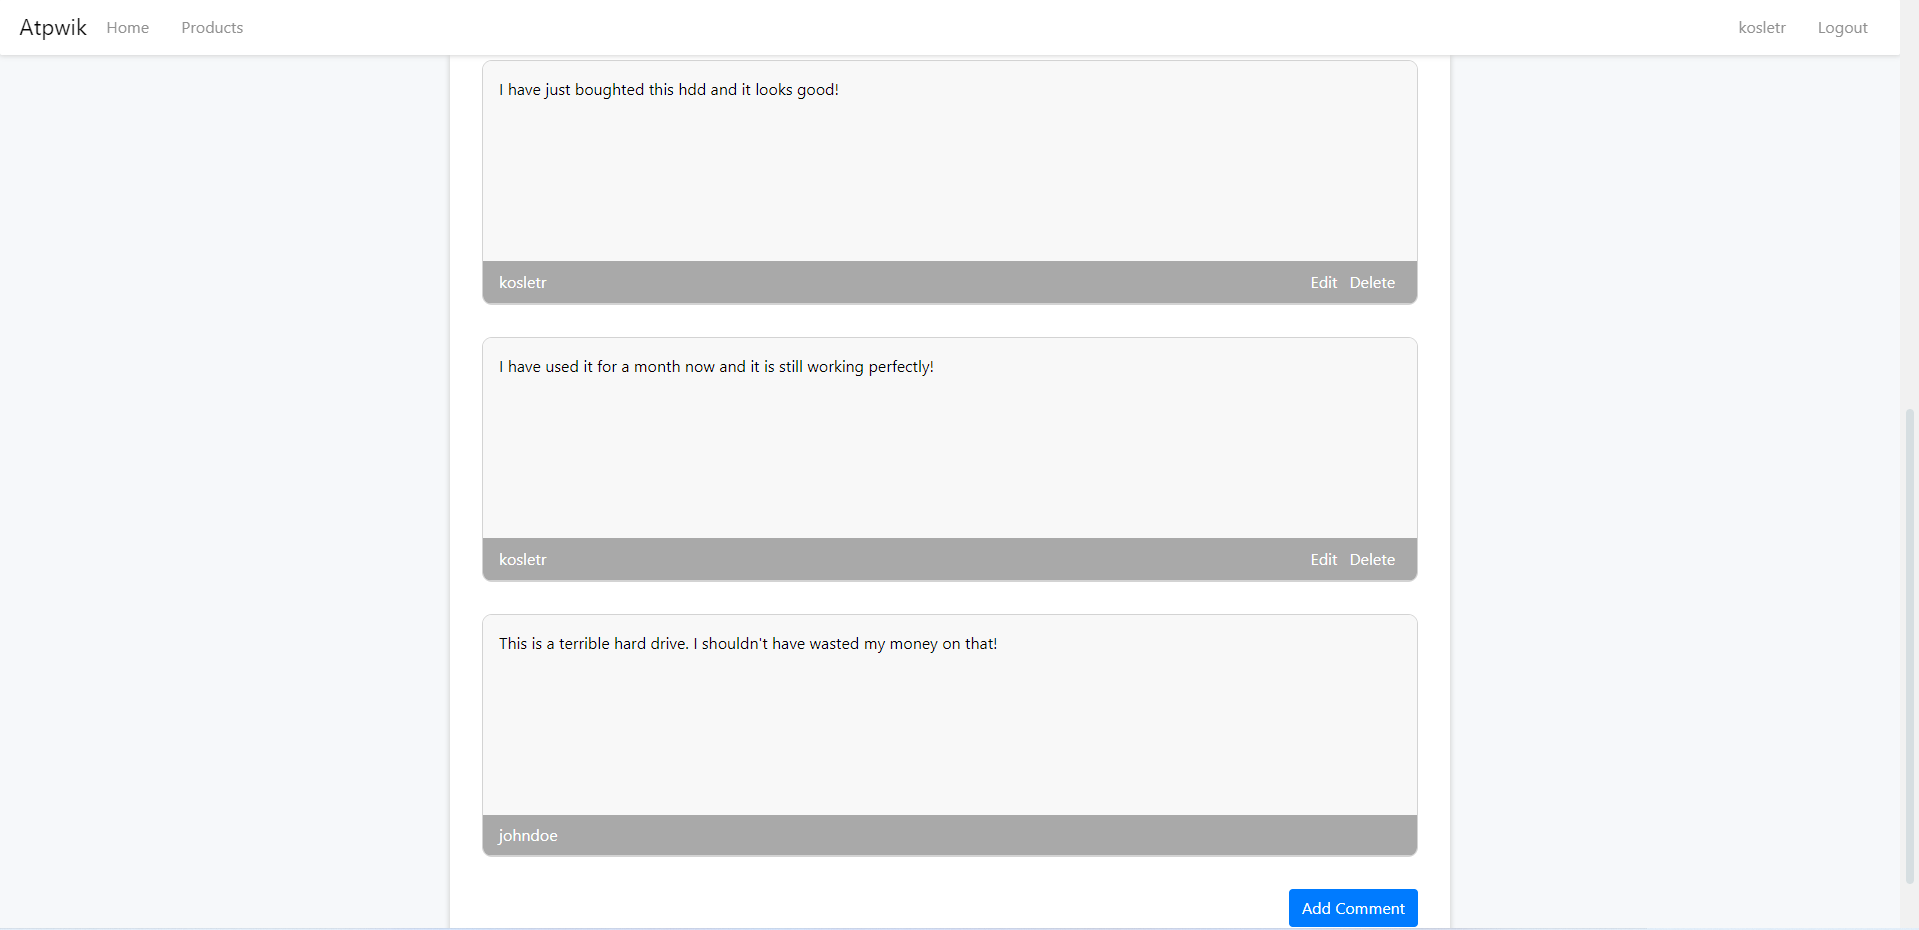
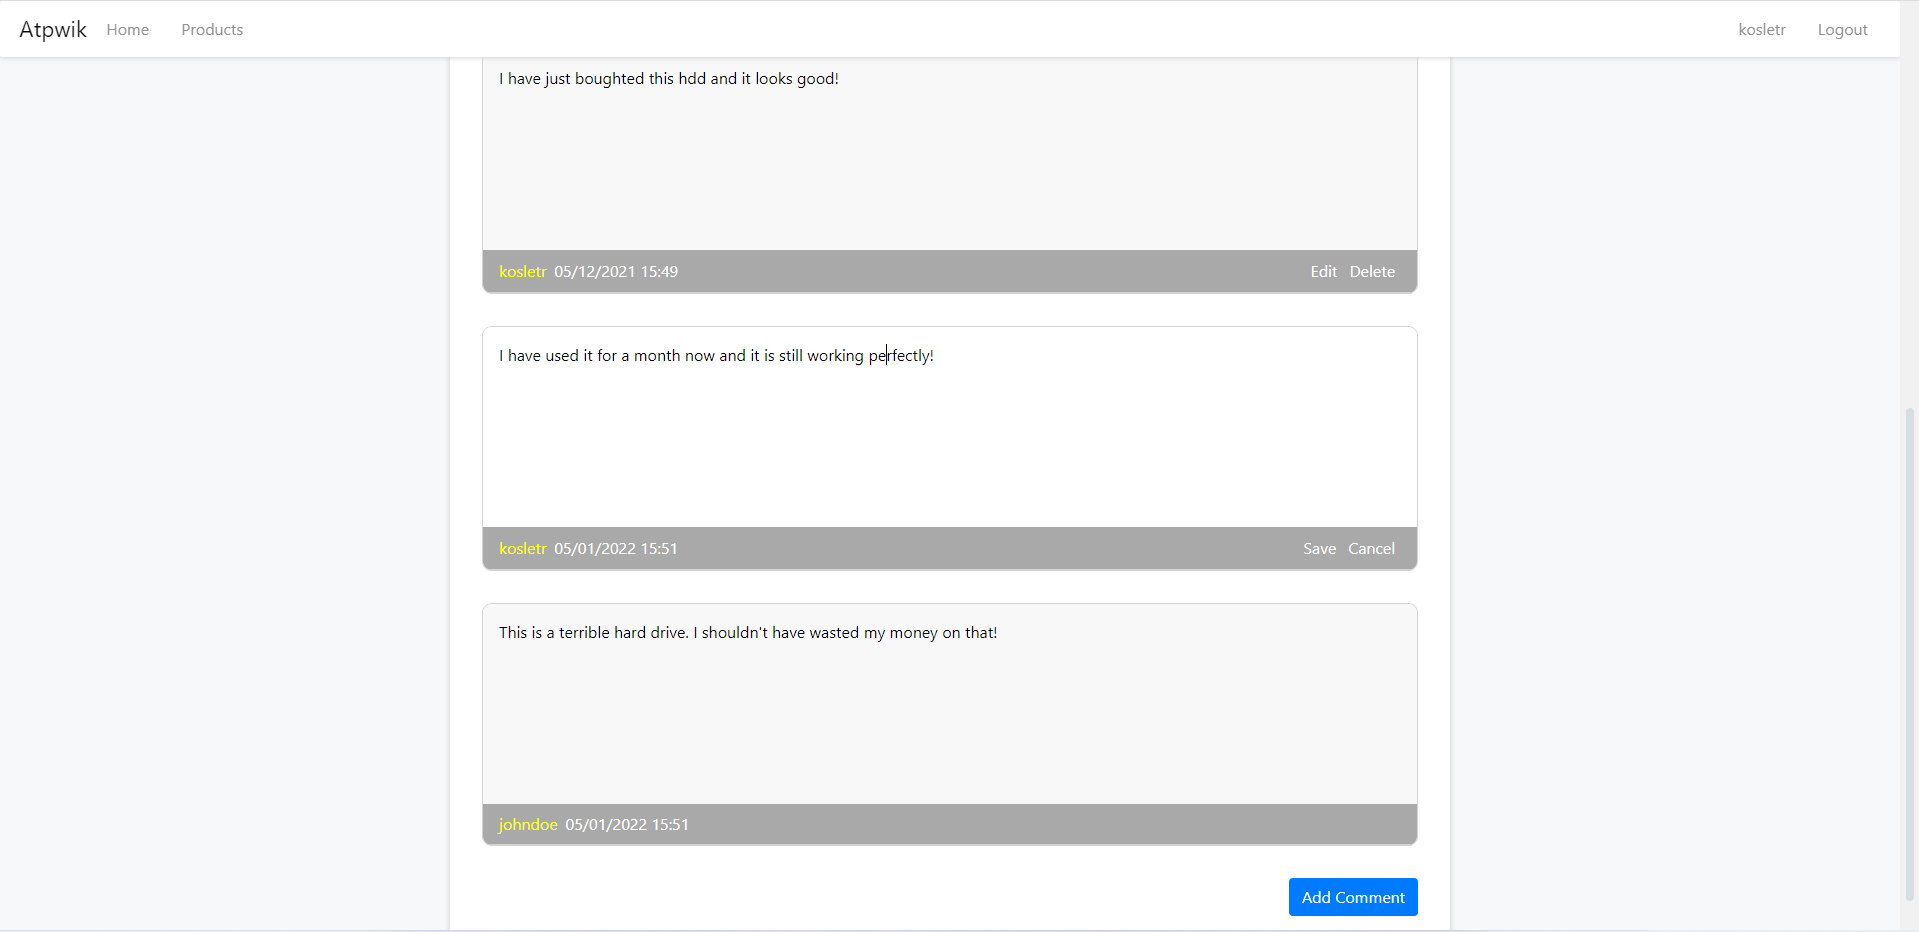
Complete comment component

diff --git a/client-app/src/components/utils/commentSection.jsx b/client-app/src/components/utils/commentSection.jsx
@@ -1,17 +1,28 @@
 import { useEffect, useState } from "react";
-import { removeCommentById, updateCommentById } from "../../services/userService";
+import { useHistory, useParams } from "react-router-dom";
+import { createComment, removeCommentById, updateCommentById } from "../../services/userService";
+import Joi from "joi-browser";
 
 function CommentSection({ data, user }) {
 
-    console.log(data);
     const [comments, setComments] = useState([]);
-
+    const history = useHistory();
+    const { id: productId } = useParams();
 
     useEffect(() => setComments(data), [data]);
 
-    async function handleSave(commentId, newComment) {
+    async function handleSave(commentId, newDescription) {
+        if (newDescription === "") {
+            setComments(comments.filter(c => c.description !== ""));
+            return;
+        }
         try {
-            await updateCommentById(commentId, newComment);
+            if (commentId !== null)
+                await updateCommentById(commentId, newDescription);
+            else {
+                await createComment(productId, newDescription);
+                window.location.reload(true);
+            }
         } catch (ex) {
             console.log(ex.response.data);
         }
@@ -23,14 +34,37 @@ function CommentSection({ data, user }) {
     }
 
     async function handleCreate() {
-        alert('Not implemented yet.');
+        if (user == null) {
+            history.push("/login");
+            return;
+        }
+        const newComment = {
+            _id: null,
+            userId: { username: user.username },
+            productId,
+            description: "",
+            initEditState: true
+        };
+        setComments([...comments, newComment]);
     }
 
     return (
         <div className="comment-section">
-            {comments.map(c => (
-                <Comment key={c._id} data={c} user={user} handleSave={handleSave} handleDelete={handleDelete} />
-            ))}
+            {
+                comments.length === 0 &&
+                <p style={{ alignSelf: "flex-start", marginBottom: "0" }}>Be the first one to comment this product.</p>
+            }
+            {
+                comments.length !== 0 &&
+                comments.map(c => (
+                    <Comment
+                        key={c._id}
+                        data={c}
+                        user={user}
+                        handleSave={handleSave}
+                        handleDelete={handleDelete}
+                    />
+                ))}
             <button className="btn btn-primary" onClick={handleCreate} style={{ alignSelf: "flex-end" }}>
                 Add Comment
             </button>
@@ -40,14 +74,34 @@ function CommentSection({ data, user }) {
 
 function Comment({ data, user, handleSave, handleDelete }) {
     const [comment, setComment] = useState(data.description);
-    const [inEditState, setInEditState] = useState(false);
+    const [inEditState, setInEditState] = useState(data.initEditState);
+    const [errors, setErrors] = useState({});
+
+    function validateProperty({ name, value }) {
+        const schema = {
+            [name]: Joi.string().min(10).max(100).required().label("Comment")
+        };
+
+        const obj = { [name]: value };
+        const { error } = Joi.validate(obj, schema);
+        return error ? error.details[0].message : null;
+    };
 
     function handleChange({ currentTarget: input }) {
+        const errorMsg = validateProperty(input);
         setComment(input.value);
+        if (errorMsg) errors[input.name] = errorMsg;
+        else delete errors[input.name];
+
+        setErrors(errors);
     };
 
     function handleFocus({ currentTarget: input }) {
         input.setSelectionRange(comment.length, comment.length);
+    }
+
+    function handleCancel() {
+        window.location.reload(true);
     }
 
     async function toggleEditState() {
@@ -59,12 +113,20 @@ function Comment({ data, user, handleSave, handleDelete }) {
     const renderEditText = () => {
         return (inEditState)
             ? (
-                <textarea id={data._id} value={comment}
+                <textarea label="Comment" name="textarea" id={data._id} value={comment}
                     autoFocus onFocus={handleFocus}
                     onChange={handleChange}
                 />
             )
             : (<p style={{ padding: "1rem" }} >{comment}</p>);
+    }
+
+    function getDateTime() {
+        const dt = new Date(data.timestamp);
+        const format = num => ("0" + num).slice(-2);
+        const date = `${format(dt.getDate())}/${format(dt.getMonth() + 1)}/${dt.getFullYear()}`;
+        const time = `${format(dt.getHours())}:${format(dt.getMinutes())}`;
+        return `${date} ${time}`;
     }
 
     return (
@@ -74,18 +136,37 @@ function Comment({ data, user, handleSave, handleDelete }) {
                     {renderEditText(comment)}
                 </div>
                 <div className="comment-footer">
-                    <span>{data.userId.username}</span>
                     {
-                        user.username === data.userId.username &&
+                        <div>
+                            <span style={{ color: "yellow", paddingRight: "0.5rem" }}>{data.userId.username}</span>
+                            <span>{data.timestamp && getDateTime()}</span>
+                        </div>
+                    }
+                    {
+                        user && user.username === data.userId.username &&
                         <div className="comment-options">
-                            <button onClick={toggleEditState}>
+                            <button
+                                disabled={errors["textarea"]}
+                                onClick={toggleEditState}>
                                 {!inEditState ? "Edit" : "Save"}
                             </button>
-                            <button onClick={() => handleDelete(data._id)}>Delete</button>
+                            {
+                                !inEditState &&
+                                <button
+                                    disabled={errors["textarea"]}
+                                    onClick={() => handleDelete(data._id)}>
+                                    Delete
+                                </button>
+                            }
+                            {
+                                inEditState &&
+                                <button onClick={() => handleCancel(data._id)}>Cancel</button>
+                            }
                         </div>
                     }
                 </div>
             </div>
+            {errors["textarea"] && <div className="alert alert-danger">{errors["textarea"]}</div>}
         </div>
     )
 }

diff --git a/client-app/src/components/product/productDetailsPage.jsx b/client-app/src/components/product/productDetailsPage.jsx
@@ -27,12 +27,13 @@ export function ProductPage() {
   useEffect(() => {
     (async function () {
       const { data: receivedProduct } = await getUserProductById(params.id);
-      setProduct(receivedProduct);
-      if (authService.getCurrentUser() == null) return;
       const productId = receivedProduct._id;
+      const { data: receivedComments } = await getCommentsByProductId(productId);
+      setProduct(receivedProduct);
+      setComments(receivedComments);
+      if (authService.getCurrentUser() == null) return;
       const { data: { liked } } = await getLikeByProductId(productId);
       const { data: { rating } } = await getRatingByProductId(productId);
-      const { data: receivedComments } = await getCommentsByProductId(productId);
       const { data: ratingStats } = await getRatingStatsById(productId);
 
       setRatingChanged(false);
@@ -44,10 +45,8 @@ export function ProductPage() {
         ratingStats
       });
 
-      setComments(receivedComments);
-
     })();
-  }, [ratingChanged]);
+  }, [params.id, ratingChanged]);
 
   const handleLike = async ({ currentTarget: input }) => {
     if (authService.getCurrentUser() == null) {
@@ -111,7 +110,7 @@ export function ProductPage() {
               onClick={() => alert("Not implemented yet.")}
             > Buy now
             </button>
-            <p style={{ margin: "1rem 0" }}> <strong>Price:</strong> {parseFloat(price).toFixed(2)}€ </p>
+            <p style={{ margin: "1rem" }}> <strong>Price:</strong> {parseFloat(price).toFixed(2)}€ </p>
           </div>
         </div>
       </div>

diff --git a/server-app/routes/comments.js b/server-app/routes/comments.js
@@ -7,7 +7,8 @@ router.get("/:productId", async (req, res) => {
     // #swagger.tags = ['Products', 'Comments']
     const comments = await Comment
         .find({ productId: req.params.productId })
-        .populate({ path: "userId", select: "username -_id" });
+        .populate({ path: "userId", select: "username -_id" })
+        .select("-__v");
 
     return res.send(comments);
 });
@@ -21,7 +22,7 @@ router.post("/:productId", auth, async (req, res) => {
     const { description } = req.body;
 
     const product = await Product.findOne({ _id: productId });
-    if (!product || req.user._id !== product.owner.toHexString())
+    if (!product)
         return res.status(403).send('Invalid product.')
 
     const comment = await new Comment({
@@ -30,7 +31,8 @@ router.post("/:productId", auth, async (req, res) => {
         userId: req.user._id,
     }).save();
 
-    return res.send(comment._id);
+    delete comment.___v;
+    return res.send(comment);
 });
 
 router.put("/:id", auth, async (req, res) => {

diff --git a/client-app/src/services/userService.js b/client-app/src/services/userService.js
@@ -4,7 +4,7 @@ import config from "../config.json";
 const userProductsUrl = config.apiUrl + "/users/products";
 const userLikesUrl = config.apiUrl + "/users/likes";
 const userRatingsUrl = config.apiUrl + "/users/ratings";
-const commentsUrl = config.apiUrl + "/users/comments/";
+const commentsUrl = config.apiUrl + "/users/comments";
 const ratingStatsUrl = config.apiUrl + "/products/ratings/stats";
 
 /* All Products of the current User */
@@ -79,6 +79,10 @@ export function getRatingStatsById(productId) {
 
 export function getCommentsByProductId(productId) {
   return http.get(`${commentsUrl}/${productId}`);
+}
+
+export function createComment(productId, newComment) {
+  return http.post(`${commentsUrl}/${productId}`, { description: newComment })
 }
 
 export function updateCommentById(commentId, newComment) {

diff --git a/client-app/src/components/utils/listCards.jsx b/client-app/src/components/utils/listCards.jsx
@@ -43,10 +43,10 @@ function Card({
         <span className="badge badge-info" style={{ alignSelf: "center" }}>{owner.username}</span>
       </div>
       <div className="my-card-body">
-        <Link className="my-card-img" to={`/products/${_id}`}>
+        <Link  onClick={() => window.scrollTo(0, 0)} className="my-card-img" to={`/products/${_id}`}>
           <img className="my-card-img-top" src={imageURL} alt={title} />
         </Link>
-        <Link className="my-card-title" to={`/products/${_id}`}>{title}</Link>
+        <Link onClick={() => window.scrollTo(0, 0)} className="my-card-title" to={`/products/${_id}`}>{title}</Link>
         <div className="my-card-description">
           <p>{shortDesc}</p>
         </div>

diff --git a/client-app/src/index.css b/client-app/src/index.css
@@ -388,6 +388,7 @@ th {
 }
 
 .product-details-image:hover {
+  cursor: pointer;
   height: 350px;
 }
 
@@ -420,7 +421,7 @@ th {
   flex-direction: column;
   width: min(80%, 1000px);
   align-items: center;
-  margin: 2rem;
+  margin: 1rem;
   padding: 1rem;
   box-shadow: 0px 0px 5px 1px lightgray;
   border-radius: 10px;
@@ -431,14 +432,14 @@ th {
   display: flex;
   flex-direction: column;
   align-items: center;
-  margin: 2rem;
+  margin: 1rem;
   padding: 1.5rem 2rem;
   box-shadow: 0px 0px 5px 1px lightgray;
   border-radius: 10px;
   background-color: white;
   overflow-y: auto;
   width: min(80%, 1000px);
-  height: 1000px;
+  height: min(1000px, 60%);
 }
 
 .comment {
